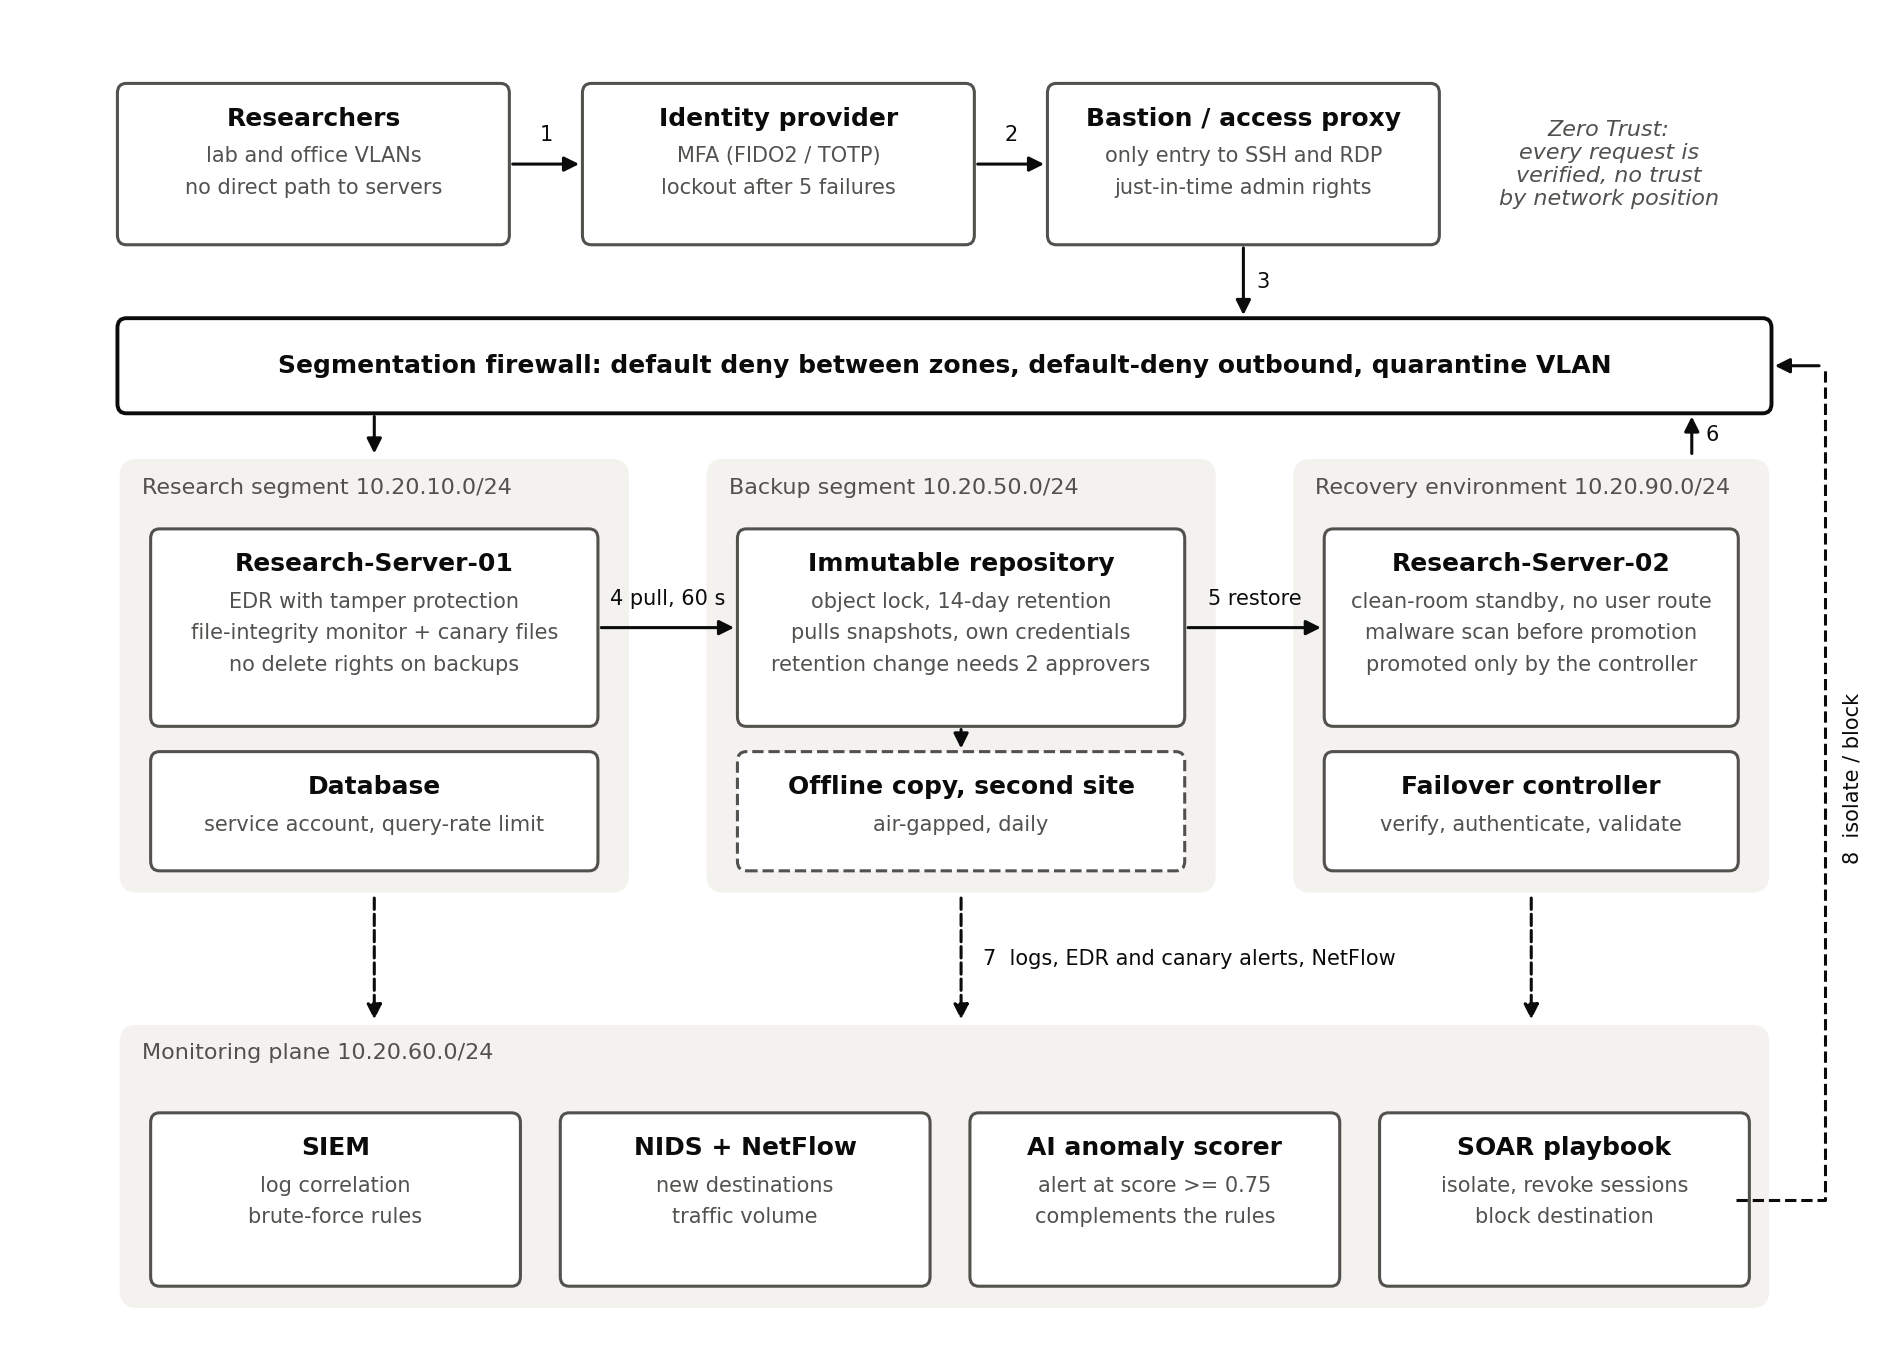
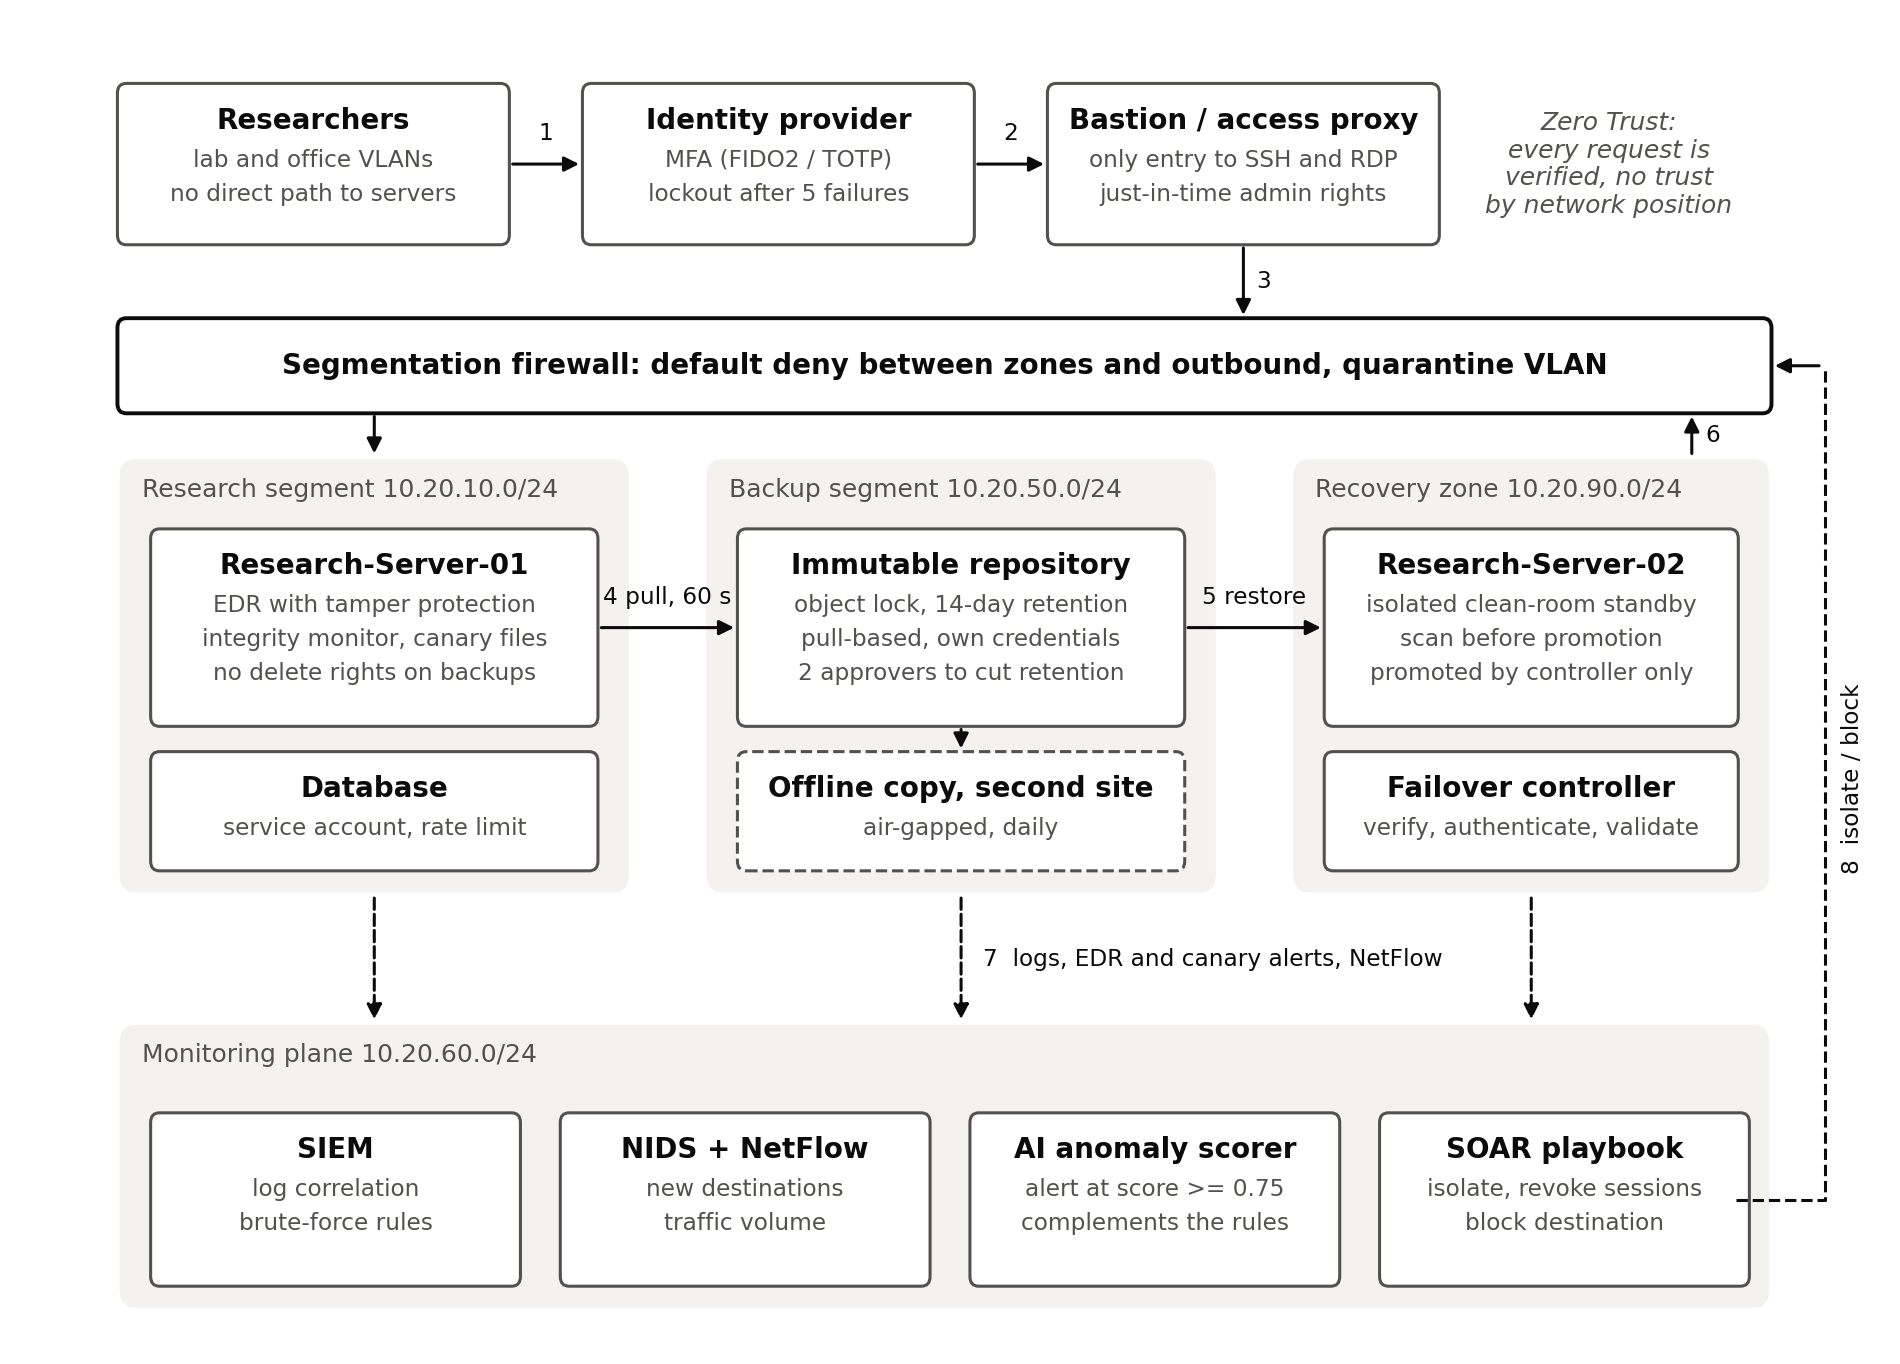
Larger fonts and shorter labels in the architecture diagram

diff --git a/docs/diagram.py b/docs/diagram.py
@@ -15,16 +15,16 @@ INK, MUTED, FILL, ZONE = "#0b0b0b", "#52514e", "#ffffff", "#f3f2ee"
 def zone(ax, x, y, w, h, title):
     ax.add_patch(FancyBboxPatch((x, y), w, h, boxstyle="round,pad=0,rounding_size=0.15",
                                 fc=ZONE, ec="none"))  # fmt: skip
-    ax.text(x + 0.2, y + h - 0.15, title, fontsize=8, color=MUTED, va="top")
+    ax.text(x + 0.2, y + h - 0.15, title, fontsize=9, color=MUTED, va="top")
 
 
 def box(ax, x, y, w, h, title, lines=(), dashed=False):
     ax.add_patch(FancyBboxPatch((x, y), w, h, boxstyle="round,pad=0.02,rounding_size=0.08",
                                 fc=FILL, ec=MUTED, lw=1.1, ls="--" if dashed else "-"))  # fmt: skip
-    ax.text(x + w / 2, y + h - 0.17, title, ha="center", va="top", fontsize=9, color=INK,
+    ax.text(x + w / 2, y + h - 0.17, title, ha="center", va="top", fontsize=10, color=INK,
             weight="bold")  # fmt: skip
     for i, line in enumerate(lines):
-        ax.text(x + w / 2, y + h - 0.5 - i * 0.26, line, ha="center", va="top", fontsize=7.5,
+        ax.text(x + w / 2, y + h - 0.52 - i * 0.28, line, ha="center", va="top", fontsize=8.4,
                 color=MUTED)  # fmt: skip
 
 
@@ -34,9 +34,9 @@ def arrow(ax, a, b, label="", dashed=False, side="above"):
     if label:
         mx, my = (a[0] + b[0]) / 2, (a[1] + b[1]) / 2
         if a[1] == b[1]:
-            ax.text(mx, my + 0.16, label, fontsize=7.5, color=INK, ha="center", va="bottom")
+            ax.text(mx, my + 0.16, label, fontsize=8.4, color=INK, ha="center", va="bottom")
         else:
-            ax.text(mx + 0.12, my, label, fontsize=7.5, color=INK, ha="left", va="center")
+            ax.text(mx + 0.12, my, label, fontsize=8.4, color=INK, ha="left", va="center")
 
 
 def main() -> None:
@@ -66,36 +66,36 @@ def main() -> None:
     box(ax, 9.3, 9.15, 3.5, 1.3, "Bastion / access proxy", ["only entry to SSH and RDP",
                                                           "just-in-time admin rights"])  # fmt: skip
     ax.text(14.35, 9.8, "Zero Trust:\nevery request is\nverified, no trust\nby network position",
-            ha="center", va="center", fontsize=8, color=MUTED, style="italic")  # fmt: skip
+            ha="center", va="center", fontsize=9, color=MUTED, style="italic")  # fmt: skip
     arrow(ax, (4.4, 9.8), (5.1, 9.8), "1")
     arrow(ax, (8.6, 9.8), (9.3, 9.8), "2")
 
     ax.add_patch(FancyBboxPatch((0.9, 7.75), 14.9, 0.75, boxstyle="round,pad=0.02,rounding_size=0.08",
                                 fc=FILL, ec=INK, lw=1.4))  # fmt: skip
-    ax.text(8.35, 8.125, "Segmentation firewall: default deny between zones, default-deny outbound, "
-            "quarantine VLAN", ha="center", va="center", fontsize=9, weight="bold",
+    ax.text(8.35, 8.125, "Segmentation firewall: default deny between zones and outbound, quarantine VLAN",
+            ha="center", va="center", fontsize=10, weight="bold",
             color=INK)  # fmt: skip
     arrow(ax, (11.05, 9.15), (11.05, 8.5), "3")
 
     zone(ax, 0.9, 3.75, 4.6, 3.6, "Research segment 10.20.10.0/24")
     box(ax, 1.2, 5.15, 4.0, 1.6, "Research-Server-01", ["EDR with tamper protection",
-                                                        "file-integrity monitor + canary files",
+                                                        "integrity monitor, canary files",
                                                         "no delete rights on backups"])  # fmt: skip
-    box(ax, 1.2, 3.95, 4.0, 0.95, "Database", ["service account, query-rate limit"])
+    box(ax, 1.2, 3.95, 4.0, 0.95, "Database", ["service account, rate limit"])
     arrow(ax, (3.2, 7.75), (3.2, 7.35))
 
     zone(ax, 6.2, 3.75, 4.6, 3.6, "Backup segment 10.20.50.0/24")
     box(ax, 6.5, 5.15, 4.0, 1.6, "Immutable repository", ["object lock, 14-day retention",
-                                                          "pulls snapshots, own credentials",
-                                                          "retention change needs 2 approvers"])  # fmt: skip
+                                                          "pull-based, own credentials",
+                                                          "2 approvers to cut retention"])  # fmt: skip
     box(ax, 6.5, 3.95, 4.0, 0.95, "Offline copy, second site", ["air-gapped, daily"], dashed=True)
     arrow(ax, (8.5, 5.15), (8.5, 4.9))
     arrow(ax, (5.2, 5.95), (6.5, 5.95), "4 pull, 60 s")
 
-    zone(ax, 11.5, 3.75, 4.3, 3.6, "Recovery environment 10.20.90.0/24")
-    box(ax, 11.8, 5.15, 3.7, 1.6, "Research-Server-02", ["clean-room standby, no user route",
-                                                         "malware scan before promotion",
-                                                         "promoted only by the controller"])  # fmt: skip
+    zone(ax, 11.5, 3.75, 4.3, 3.6, "Recovery zone 10.20.90.0/24")
+    box(ax, 11.8, 5.15, 3.7, 1.6, "Research-Server-02", ["isolated clean-room standby",
+                                                         "scan before promotion",
+                                                         "promoted by controller only"])  # fmt: skip
     box(ax, 11.8, 3.95, 3.7, 0.95, "Failover controller", ["verify, authenticate, validate"])
     arrow(ax, (10.5, 5.95), (11.8, 5.95), "5 restore")
     arrow(ax, (15.1, 7.35), (15.1, 7.75), "6")
@@ -111,12 +111,12 @@ def main() -> None:
         box(ax, 1.2 + i * 3.7, 0.5, 3.3, 1.4, title, lines)
     for x in (3.2, 8.5, 13.65):
         arrow(ax, (x, 3.75), (x, 2.65), dashed=True)
-    ax.text(8.7, 3.2, "7  logs, EDR and canary alerts, NetFlow", fontsize=7.5, color=INK,
+    ax.text(8.7, 3.2, "7  logs, EDR and canary alerts, NetFlow", fontsize=8.4, color=INK,
             ha="left", va="center")  # fmt: skip
 
     ax.plot([15.5, 16.3, 16.3], [1.2, 1.2, 8.125], color=INK, lw=1.1, ls="--")
     arrow(ax, (16.3, 8.125), (15.8, 8.125))
-    ax.text(16.55, 4.7, "8  isolate / block", fontsize=7.5, color=INK, rotation=90, ha="center",
+    ax.text(16.55, 4.7, "8  isolate / block", fontsize=8.4, color=INK, rotation=90, ha="center",
             va="center")  # fmt: skip
 
     fig.savefig(OUT, dpi=200, bbox_inches="tight", facecolor="white")
